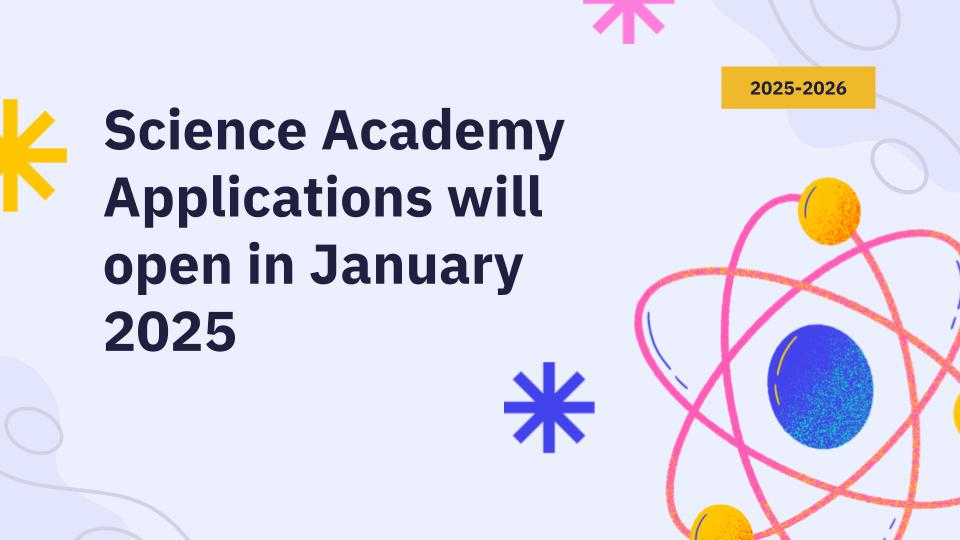
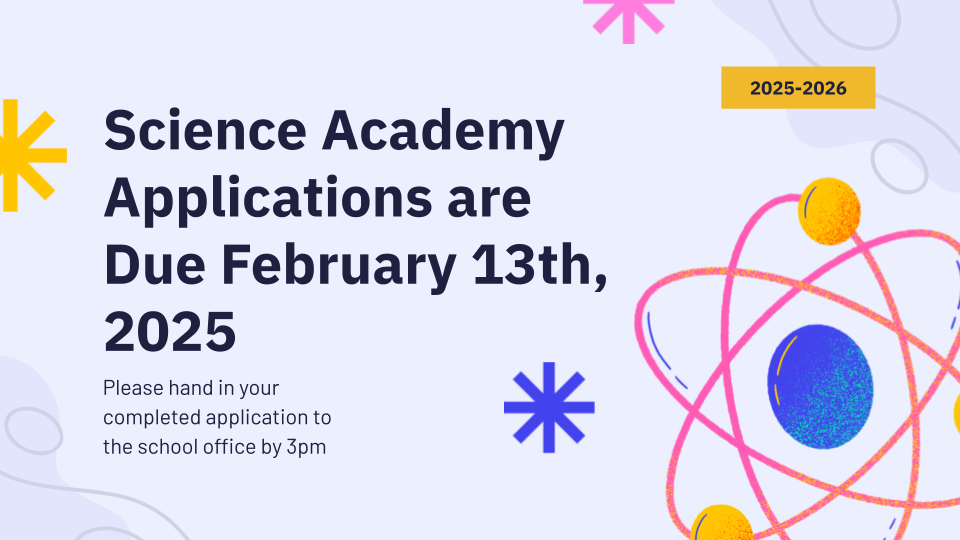
update index with 2025 dates

diff --git a/index.html b/index.html
@@ -76,7 +76,7 @@
 
   <div class="alert-fixed text-center">
       <div id="alert" class="alert alert-danger alert-dismissible fade show" role="alert">
-          <strong>Science Academy applications for the 2025 intake will be available in January 2025. An info session will be held in February 2025 (time TBD).</strong>
+          <strong>Science Academy intake applications are due February 13th and there will be an information session on 7pm, February 4th. Teams join code: 5tgj3op</strong>
           <button type="button" class="close" data-dismiss="alert" aria-label="Close">
             <span aria-hidden="true">&times;</span>
           </button>
@@ -104,7 +104,6 @@
               <div class="carousel-item">
                 <img class="d-block w-100" src="assets\img\intro-slides\2.jpg" alt="Second slide">
                 <div class="d-block carousel-caption d-none d-md-block">
-                  <p class="text-light bg-gray">Seattle Field trip 2023</p>
                 </div>
               </div>
               <div class="carousel-item">
@@ -141,6 +140,12 @@
                 <img class="d-block w-100" src="assets\img\intro-slides\8.jpg" alt="Second slide">
                 <div class="d-block carousel-caption d-none d-md-block">
                   <p class="text-light bg-gray">Congratulations to Timothy Cai for his achievements in 2021’s Canada Wide Science Fair</p>
+                </div>
+              </div>
+              <div class="carousel-item">
+                <img class="d-block w-100" src="assets\img\intro-slides\9.jpg" alt="Second slide">
+                <div class="d-block carousel-caption d-none d-md-block">
+                  <p class="text-light bg-gray">Seattle Field trip 2023</p>
                 </div>
               </div>
             </div>
@@ -638,7 +643,7 @@
         Copyright &copy; Fraser Heights Secondary School 2023. All Rights Reserved.
       </div>
       <div class="credits">
-        Website Design by Albert Guo '24 <a href="Readme.txt" Download>License</a>
+        Website Design by Albert Guo '24, Alexander Li '25, Warren Zhang '25 <a href="Readme.txt" Download>License</a>
       </div>
     </div>
 
